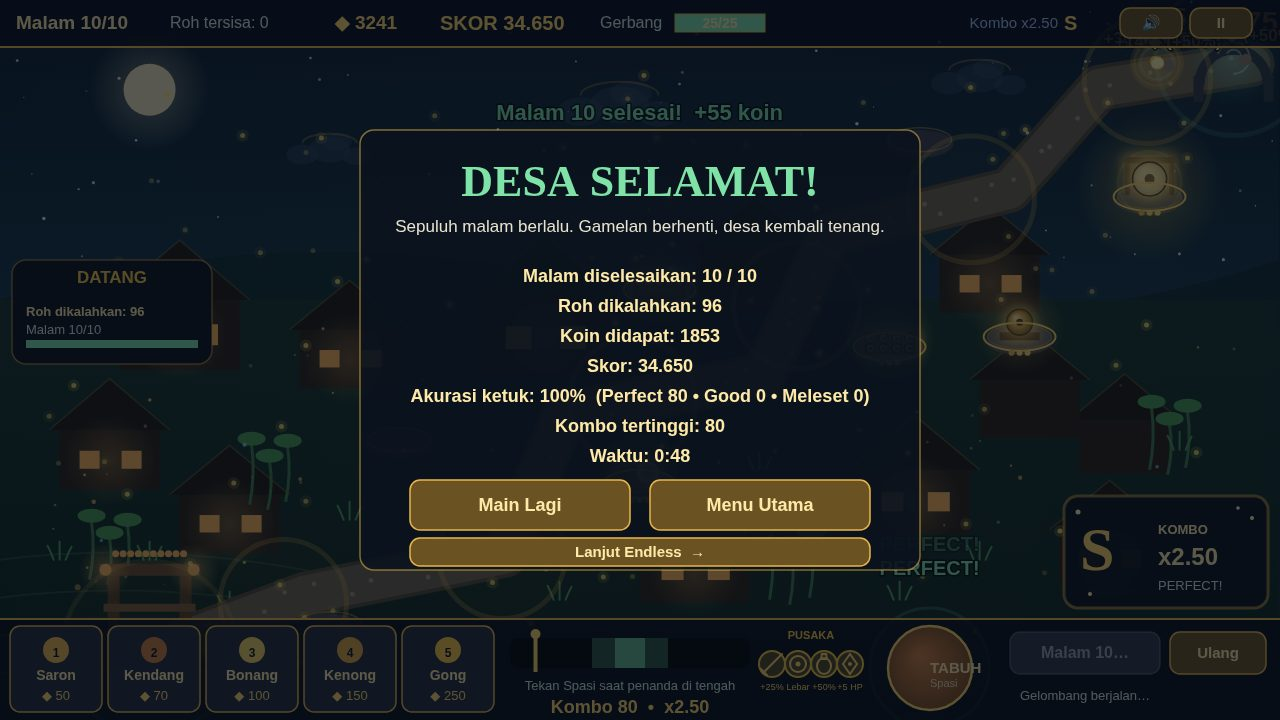
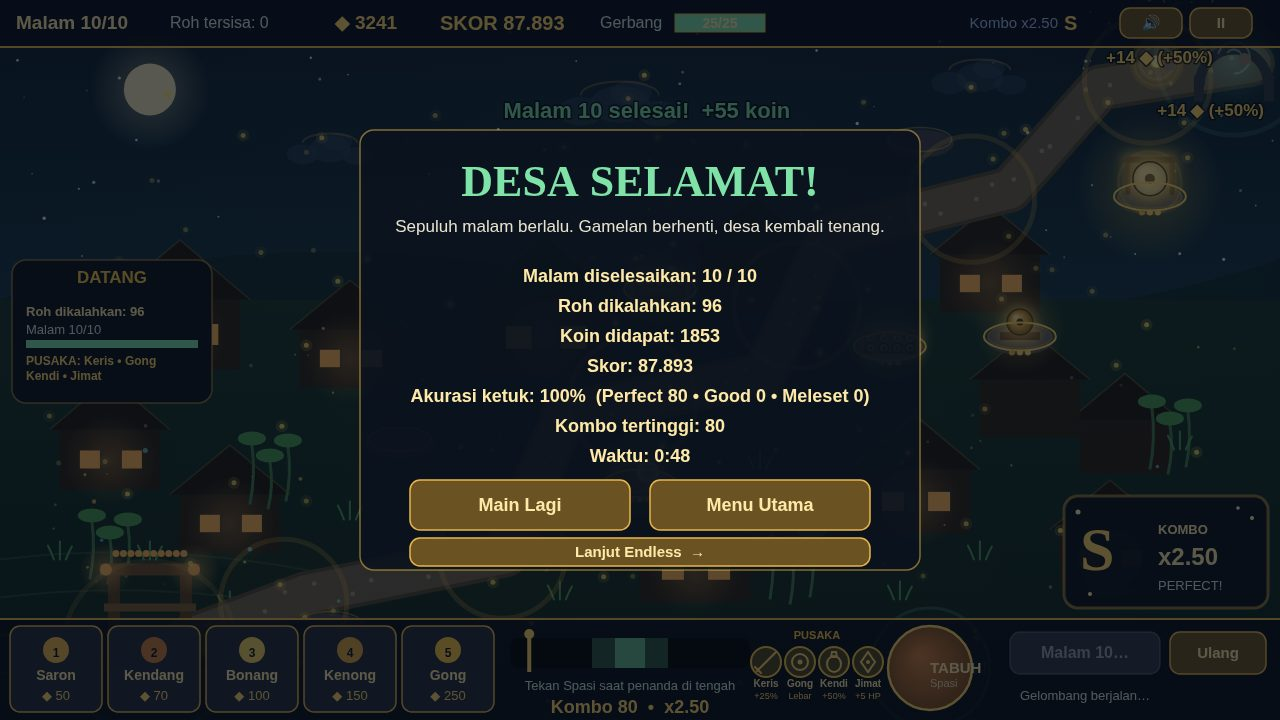
TABUH v2.4 fix 2 lanjut: pop kill digabung 1 teks, de-collision lebar riil + langkah 3x font (tumpang tindih 0)

diff --git a/game/src/effects.js b/game/src/effects.js
@@ -1,5 +1,7 @@
 // Particles, floating text and expanding beat rings. Purely visual: nothing
 // here touches game logic, so the probe can disable it without changing a run.
+import { W } from './config.js';
+
 export class Effects {
   constructor() {
     this.particles = [];
@@ -65,10 +67,34 @@ export class Effects {
     // drop small ones so the big numbers stay readable, like the top-10
     // frames' clean numbers.
     if (this.texts.length >= 20 && size < 22) return;
+    // Texts are drawn center-aligned, so a string's real width is
+    // ~0.6 * size per character — the collision test must use it, not the
+    // font size: "+225 ◆ (+50%)" at 17 px is ~120 px wide.
+    const estW = str.length * size * 0.6;
     // Spread numbers from the same blast: a random offset + slow sideways
     // drift, so they fan out instead of stacking into one unreadable blob.
+    // Clamp inside the frame (center-aligned: keep half the width clear).
+    let px = Math.min(Math.max(x + (Math.random() * 28 - 14), estW / 2 + 8), W - estW / 2 - 8);
+    let py = y + (Math.random() * 12 - 6);
+    // De-collide: a number that would land on top of a live one steps down
+    // (up to 8 steps), so a multi-kill reads as a vertical stack. The window
+    // is deliberately wide — (sizeA + sizeB) * 1.2 vertically: texts are
+    // drawn on an alphabetic baseline, so two texts whose centers are only
+    // ~11 px apart still overlap their glyphs, and texts spawned a beat
+    // apart have already risen into each other's space by capture time.
+    // The step (3x the font) MUST exceed the window: a step smaller than
+    // the window re-hits the same text and burns all 8 tries without
+    // clearing it — that was the remaining boss-frame overlap.
+    const step = size * 3;
+    for (let tries = 0; tries < 8; tries++) {
+      const hit = this.texts.find((t) =>
+        Math.abs(t.x - px) < (t.estW + estW) / 2 + 6
+        && Math.abs(t.y - py) < (t.size + size) * 1.2);
+      if (!hit) break;
+      py += step;
+    }
     this.texts.push({
-      x: x + (Math.random() * 28 - 14), y: y + (Math.random() * 12 - 6),
+      x: px, y: py, estW,
       vx: (Math.random() - 0.5) * 16, str, color, size, life: 1.0,
     });
   }

diff --git a/game/src/game.js b/game/src/game.js
@@ -320,7 +320,10 @@ export class Game {
     e.flash = 1;
     // Floating damage numbers: shown for almost every hit now, and big
     // enough to read at a glance (the mockup's -80 / -34 / -16).
-    if (dmg >= 5) {
+    // Gong Raksasa hits skip the per-enemy number: the blast already shows
+    // the giant "GONG RAKSASA!" + shockwaves, and a dozen "-200" at once
+    // was the unreadable blob in the v2.3 boss frame. Kill pops still show.
+    if (dmg >= 5 && kind !== 'gong') {
       const big = dmg >= 50;
       const mid = dmg >= 20;
       this.effects.text(
@@ -340,18 +343,22 @@ export class Game {
       this.stats.kills++;
       // Score: 100 per kill, scaled by the combo multiplier at kill time.
       this.score += Math.round(100 * this.comboMult());
+      // Bonus label merged into the coin pop below (one text per kill):
+      // two texts at the same spot ("TUYUL EMAS +500" + "+225 ◆") overlapped
+      // in the boss frame no matter how the de-collision stacked them.
+      let bonusLabel = '';
       if (e.type === 'raja') {
         this.score += 5000;
-        this.effects.text(e.x, e.y - 44, 'BOSS +5000', '#ffd76a', 26);
+        bonusLabel = 'BOSS +5000 • ';
       }
       if (e.type === 'emas') {
         this.score += 500;
-        this.effects.text(e.x, e.y - 44, 'TUYUL EMAS +500', '#ffd76a', 22);
+        bonusLabel = 'TUYUL EMAS +500 • ';
       }
       this.effects.burst(e.x, e.y, e.def.color, 16);
       const bonus = (this.relics.has('kendi') ? ' (+50%)' : '') + (this.twist === 'purnama' ? ' (x2)' : '');
       // Kill pop sits above the damage number (radius + 32), not on top of it.
-      this.effects.text(e.x, e.y - e.radius - 32, `+${reward} ◆${bonus}`, '#ffd76a', e.type === 'emas' ? 24 : 17);
+      this.effects.text(e.x, e.y - e.radius - 32, `${bonusLabel}+${reward} ◆${bonus}`, '#ffd76a', e.type === 'emas' || e.type === 'raja' ? 22 : 17);
     }
   }
 
